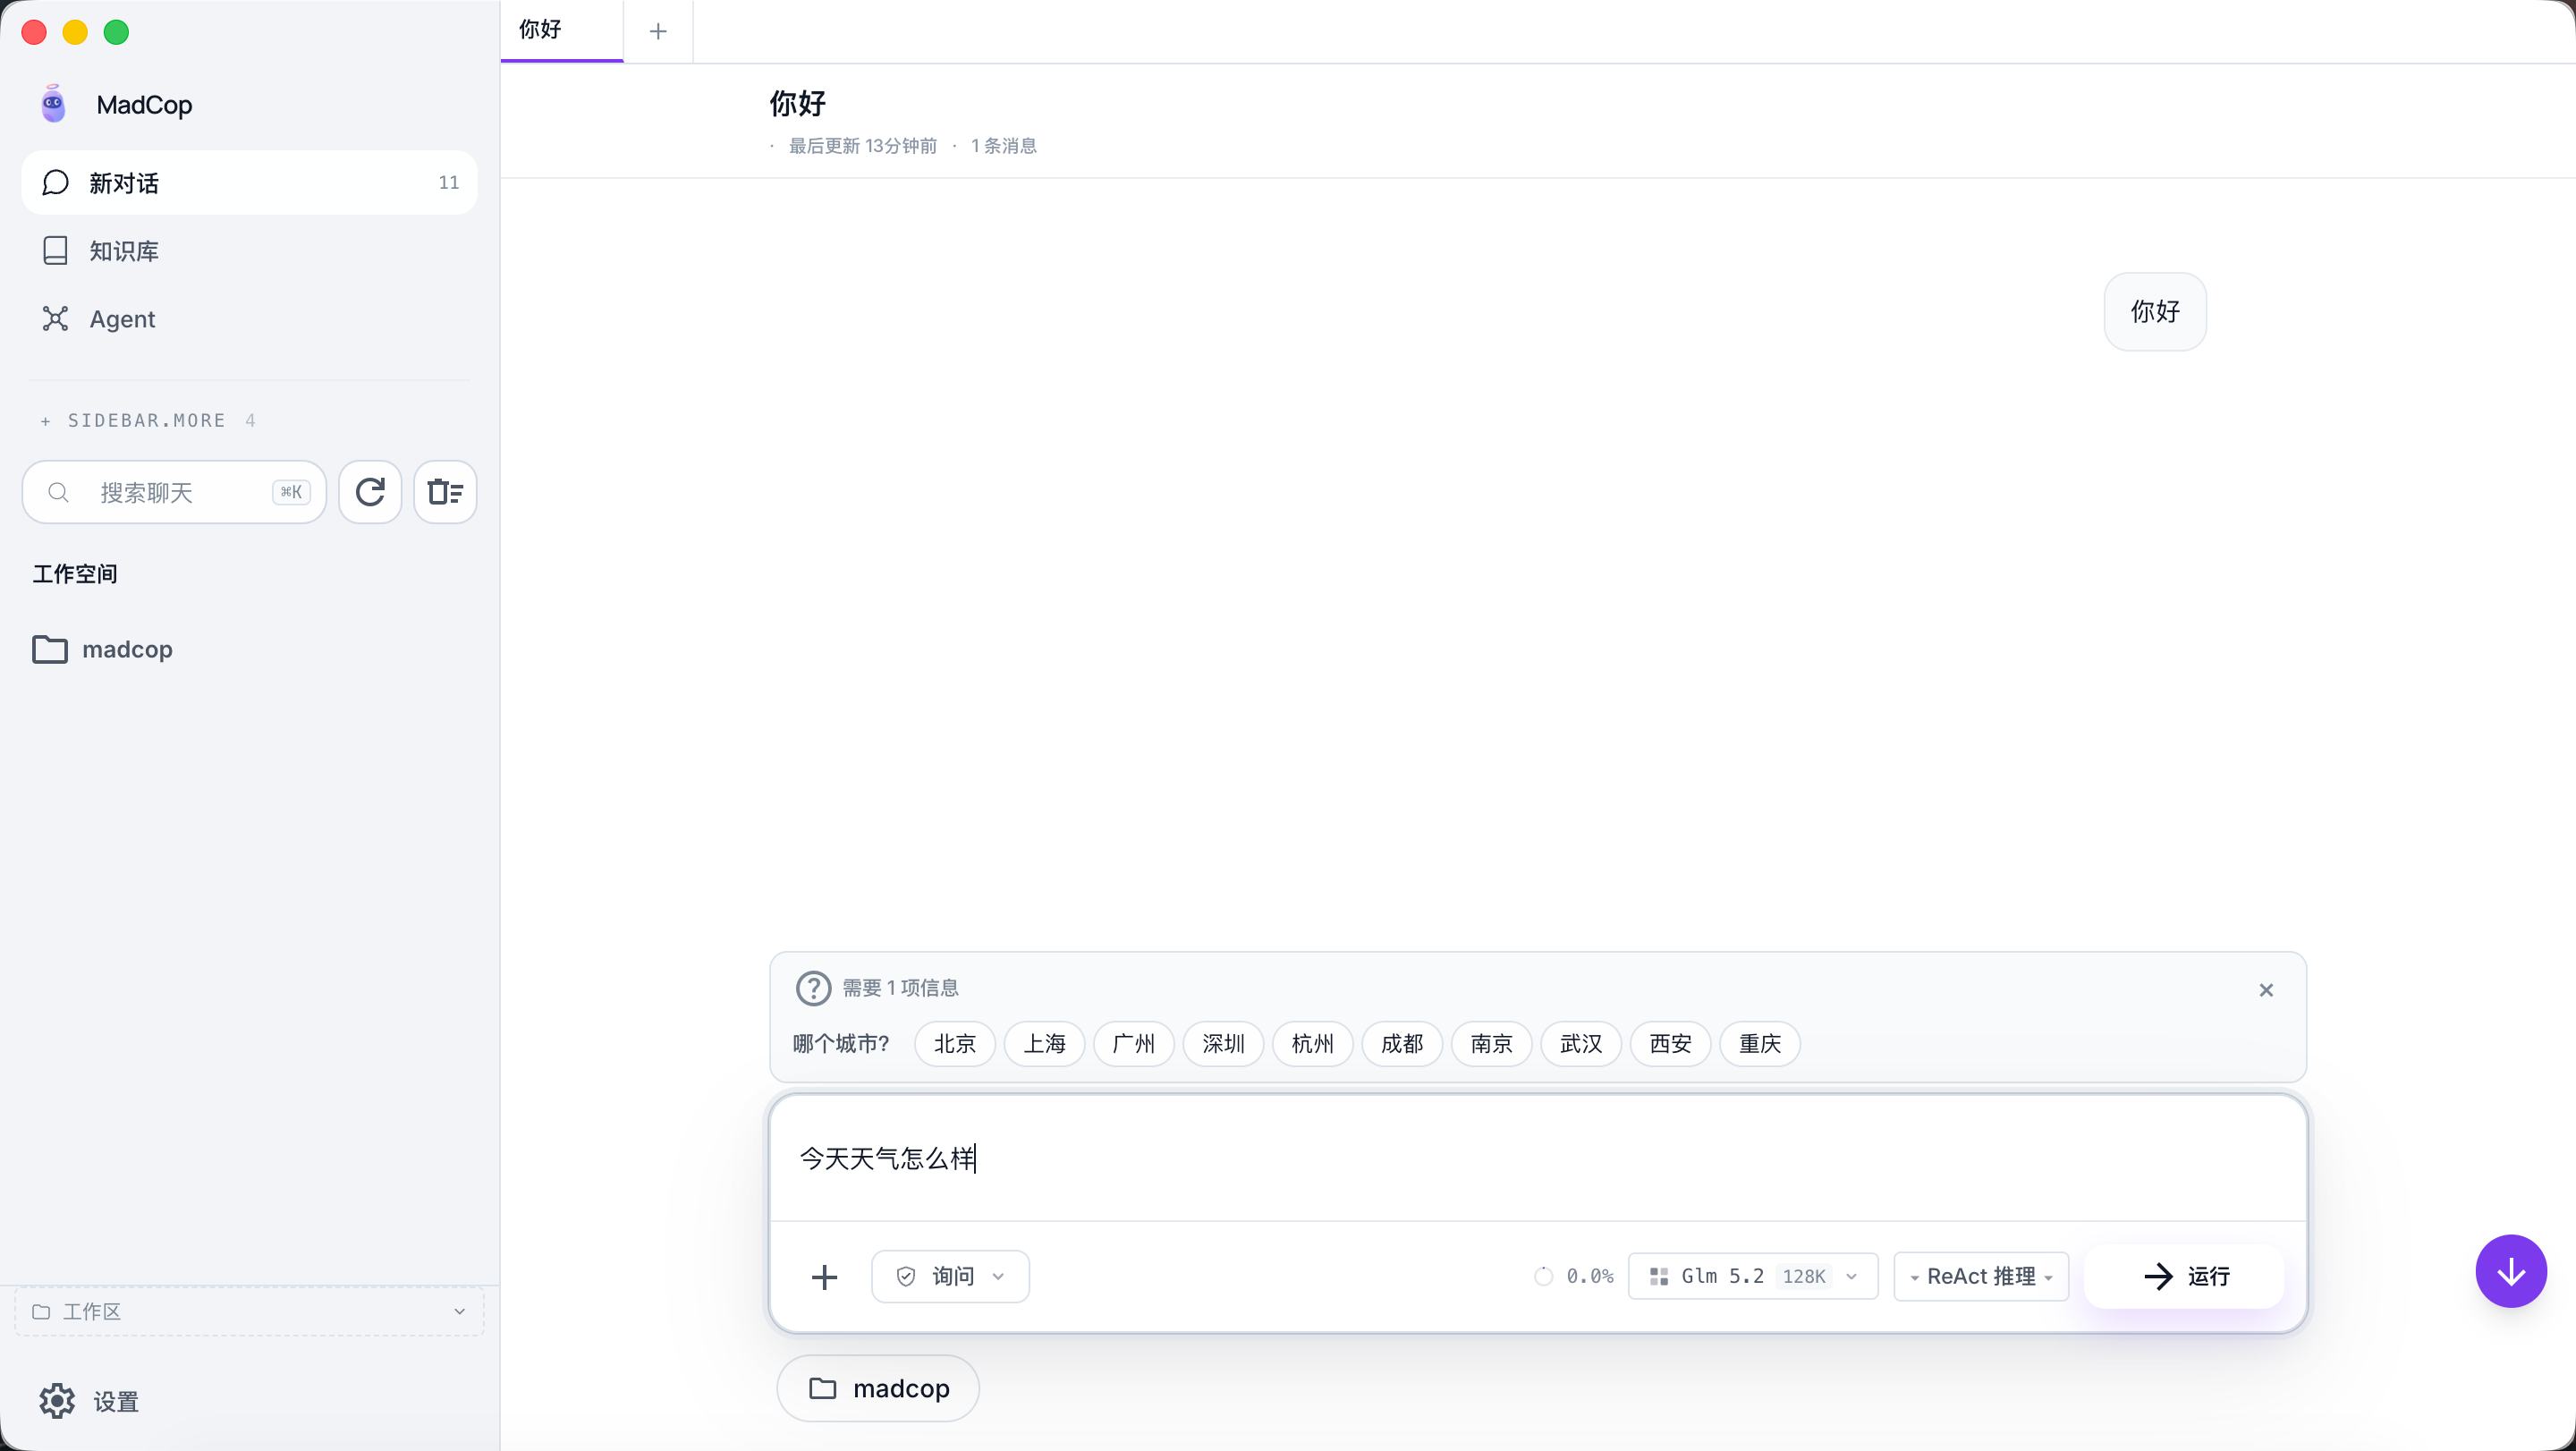
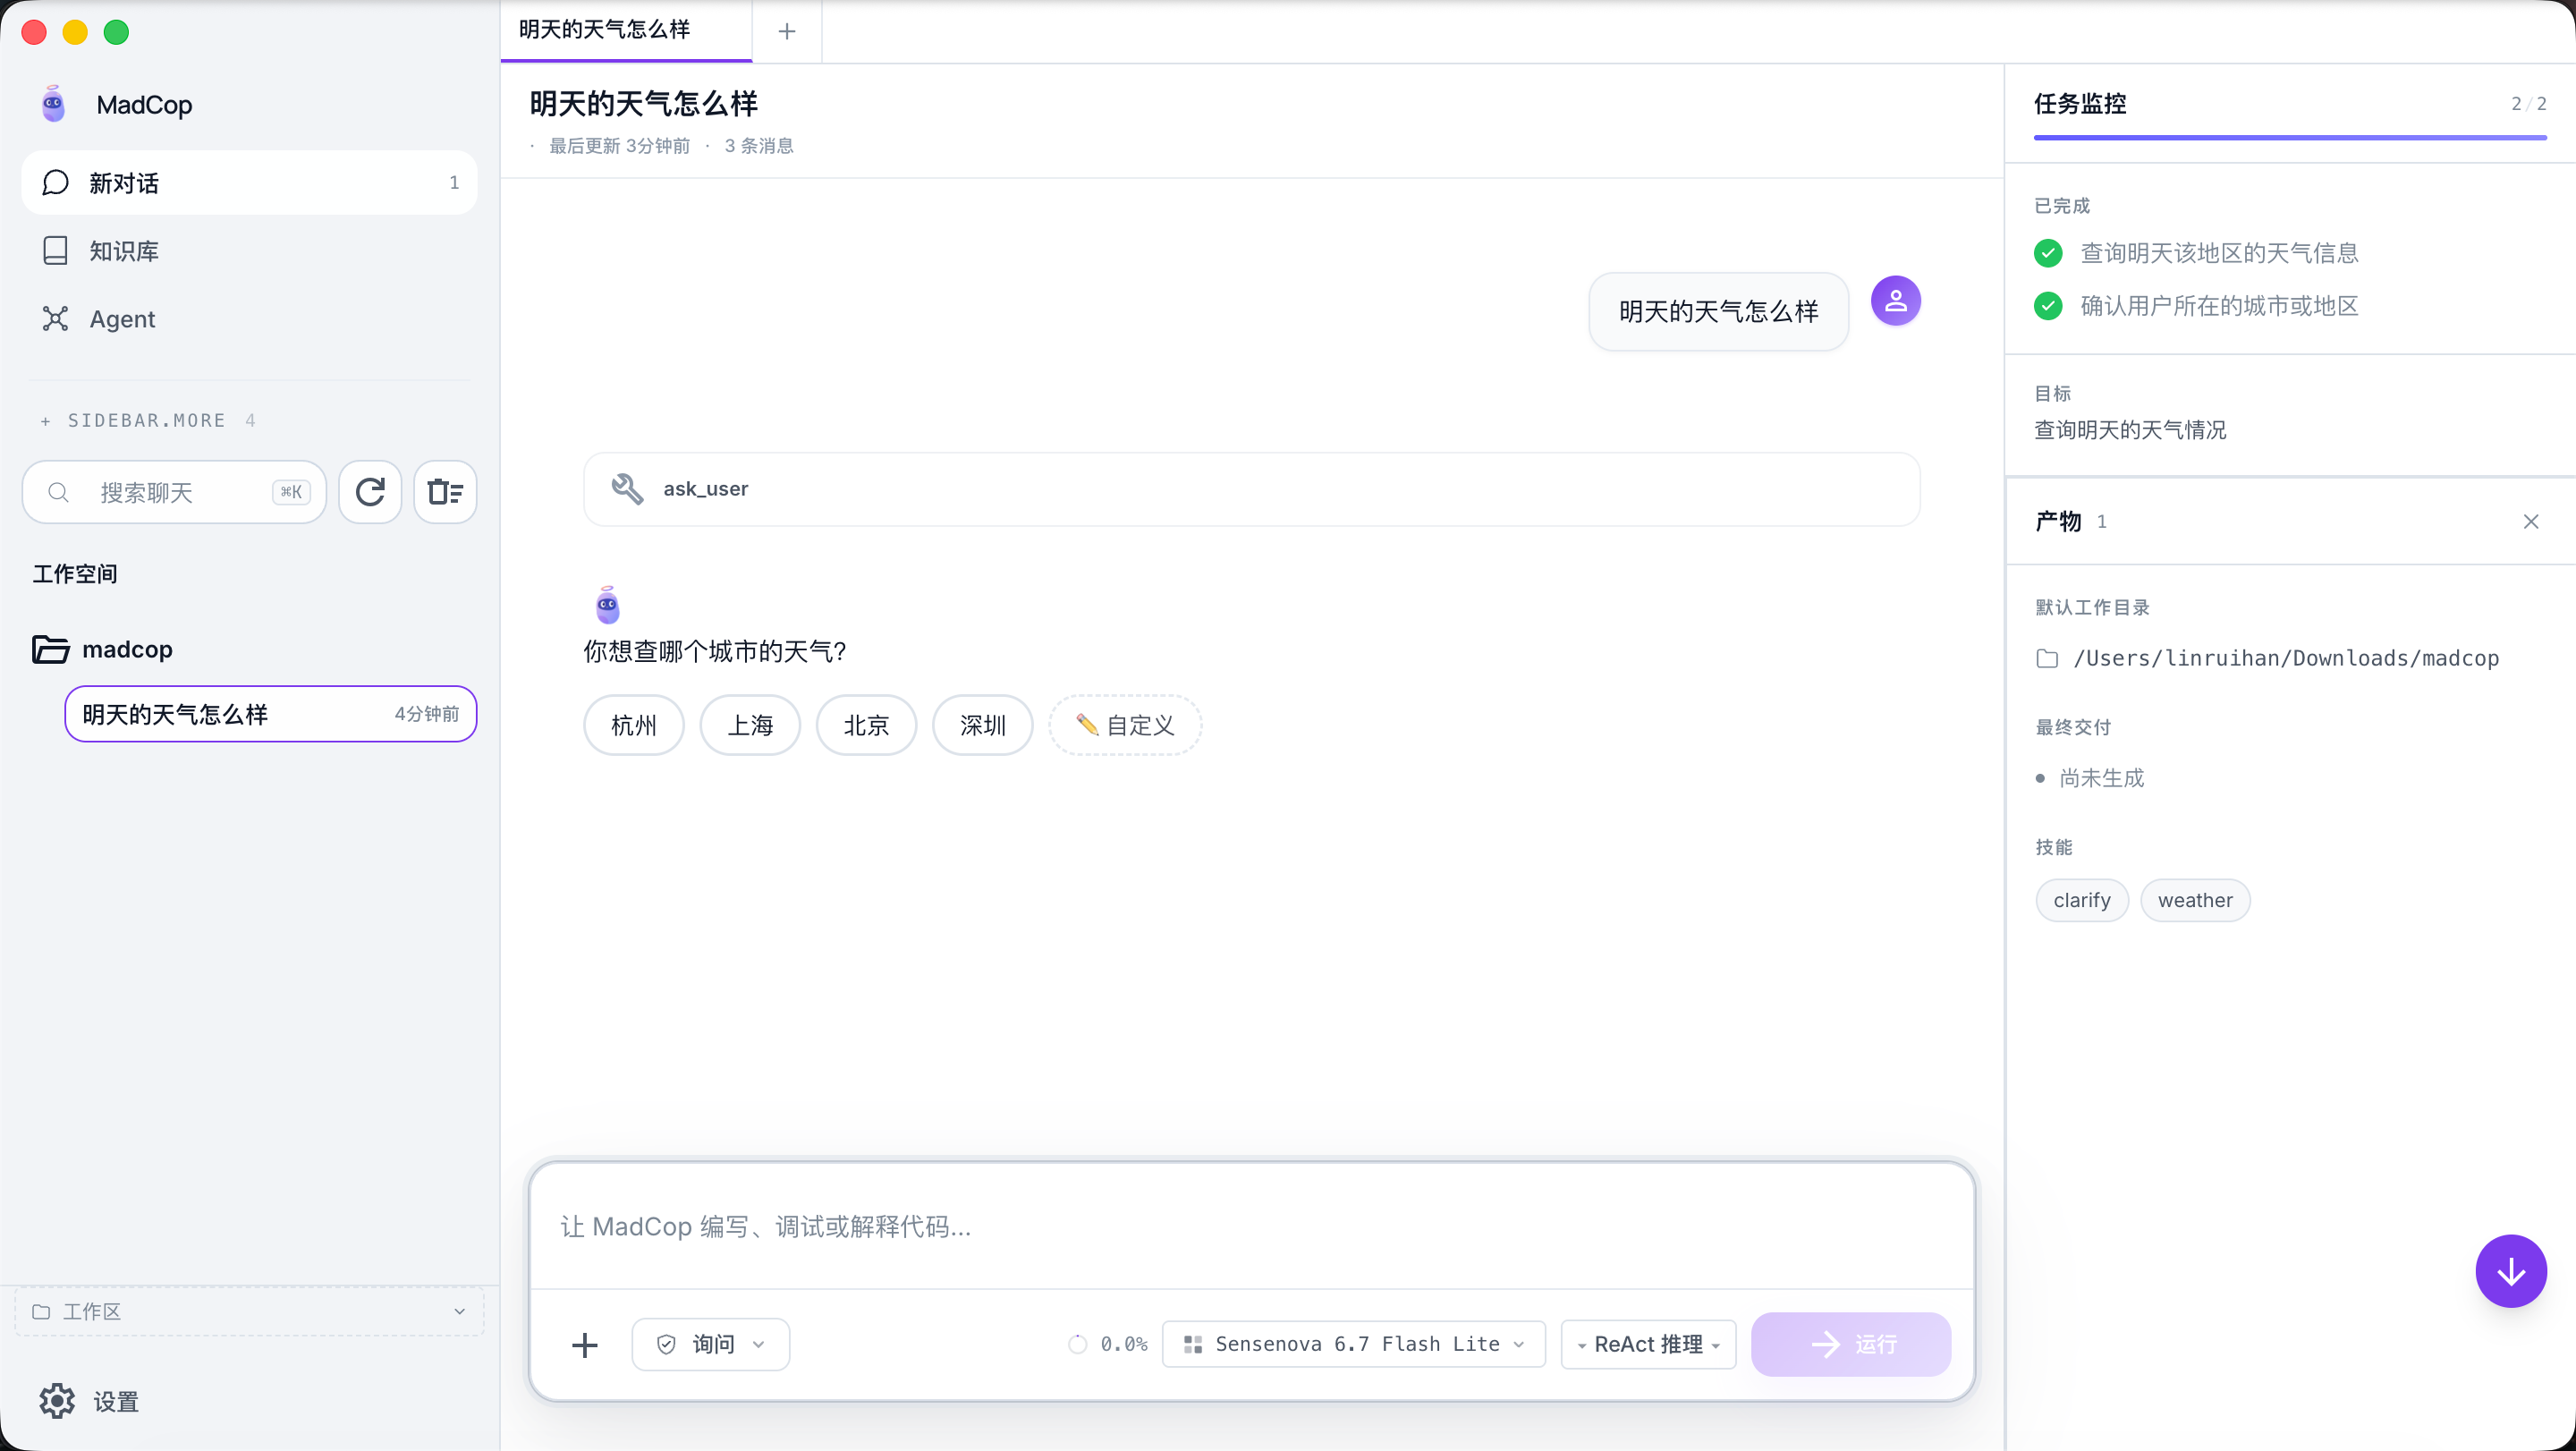
docs: update README screenshots & refresh stale info
- Replace 3 Preview screenshots with current UI (clarify chips,
  structured report, planning progress bar)
- Remove outdated 'UI is functional, not pretty' from audience section
- Update Vue file count 155→285, deployment bun→npm, theme note

diff --git a/README.md b/README.md
@@ -12,22 +12,22 @@ This document explains the *why* behind the major design decisions — written f
 
 <table>
   <tr>
-    <td align="center"><b>Multi-model chat</b><br/>Sidebar · Tabs · Workspace · Tool calls</td>
+    <td align="center"><b>Clarify &amp; choose</b><br/>Interactive question chips · User avatar · Task monitor panel</td>
   </tr>
   <tr>
-    <td><img src="docs/screenshots/01-chat.png" alt="Chat interface"/></td>
+    <td><img src="docs/screenshots/01-chat.png" alt="Chat interface with clarify choices"/></td>
   </tr>
   <tr>
-    <td align="center"><b>Streaming report generation</b><br/>LLM streaming output with tool calls</td>
+    <td align="center"><b>Structured report output</b><br/>Markdown tables · Key takeaways · Assistant avatar</td>
   </tr>
   <tr>
-    <td><img src="docs/screenshots/02-generating.png" alt="Generating report"/></td>
+    <td><img src="docs/screenshots/02-generating.png" alt="Generated report"/></td>
   </tr>
   <tr>
-    <td align="center"><b>Rich report with tables</b><br/>Markdown + data visualization</td>
+    <td align="center"><b>Plan-driven execution</b><br/>Step-by-step planning progress · Live task tracking</td>
   </tr>
   <tr>
-    <td><img src="docs/screenshots/03-report.png" alt="Generated report"/></td>
+    <td><img src="docs/screenshots/03-report.png" alt="Planning mode"/></td>
   </tr>
 </table>
 
@@ -250,7 +250,6 @@ MadCop is built for **power users who have a clear sense of "I have a task" and 
 
 It is **not** built for:
 
-- Users who want a "polished" SaaS experience. The UI is functional, not pretty.
 - Users who want a cloud sync model. There is no cloud sync. (If you want one, file an issue.)
 - Users who are not comfortable with a config screen full of model API keys. The trade-off for "any model you want" is "you have to bring your own API key".
 
@@ -266,9 +265,9 @@ cd madcop
 pip install -e .
 python -m madcop.server  # terminal 1: backend on :8765
 cd desktop
-bun install
-bun run build:electron  # terminal 2: build the Electron app
-./node_modules/electron/dist/Electron.app/Contents/MacOS/Electron \
+npm install
+npx vite build --config vite.vue.config.ts   # terminal 2: build Vue renderer
+node ./node_modules/electron/dist/Electron.app/Contents/MacOS/Electron \
   ./electron-dist/main.cjs --no-sandbox
 ```
 
@@ -296,10 +295,10 @@ Each item is independently shippable. None of them require rewriting what alread
 ```
 madcop/
 ├── desktop/                  Electron desktop (Vue 3 + Pinia + Tailwind v4)
-│   ├── src/vue/              ~155 .vue files (renderer)
+│   ├── src/vue/              ~285 .vue files (renderer)
 │   ├── public/               Static assets (mascot, icons)
 │   ├── electron/             Main process scripts
-│   └── theme/                CSS theme system
+│   └── theme/                CSS theme system (light / dark / white)
 │
 ├── madcop/                   Python backend
 │   ├── server/               FastAPI app, route handlers, SSE streaming